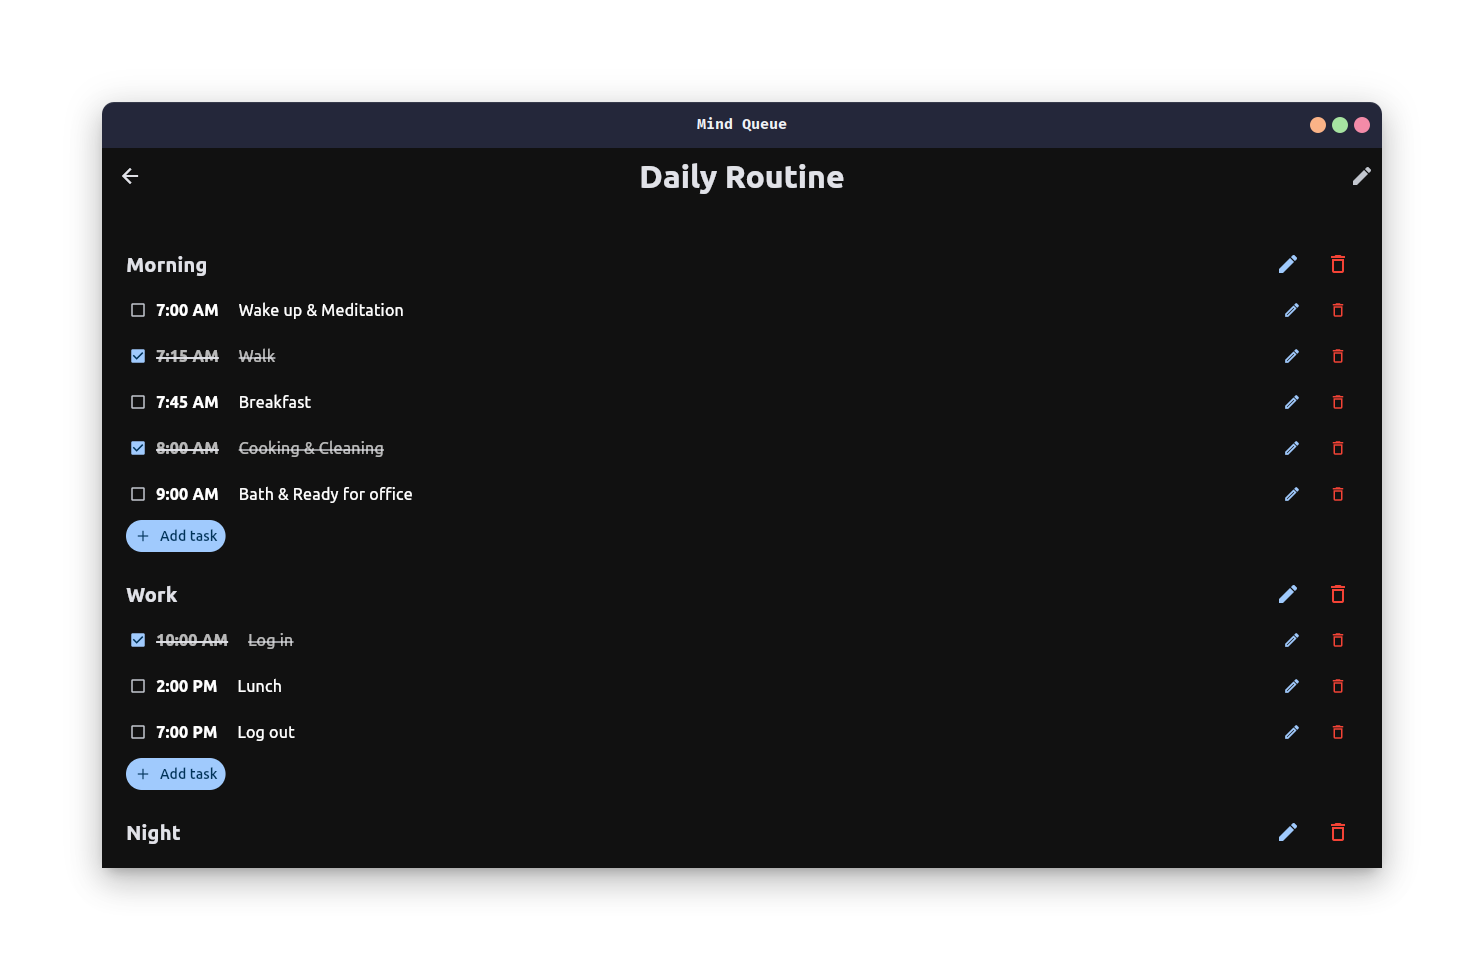
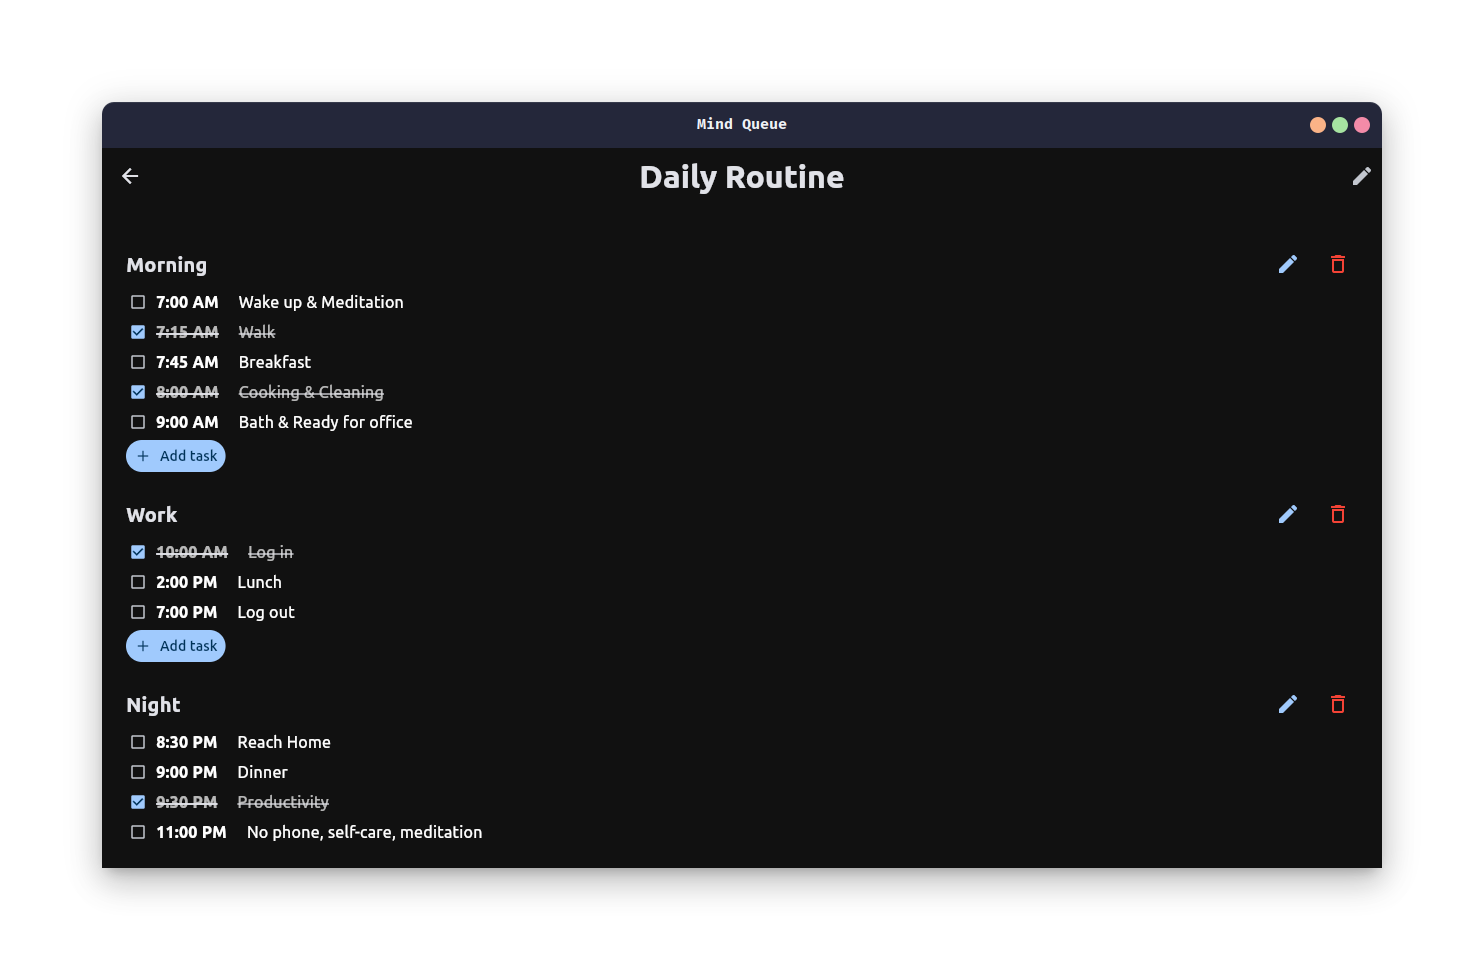
update screenshots due to ui change

Changed region(s): [[0.062, 0.3093, 0.341, 0.866]]

diff --git a/README.md b/README.md
@@ -44,35 +44,21 @@ It helps you organize your life into **Systems → Headers → Tasks**, with a f
 
 ## **Screenshots**
 
-#### 1. Dashboard - System List
-![Dashboard](screenshots/001-dashboard-system-list.png)
+| Dashboard – System List | Add New System | Open System View |
+|------------------------|----------------|------------------|
+| <img src="screenshots/001-dashboard-system-list.png" width="200"/> | <img src="screenshots/002-add-system.png" width="200"/> | <img src="screenshots/003-open-system.png" width="200"/> |
 
-#### 2. Add System
-![Add System](screenshots/002-add-system.png)
+| System Sections | Rename System | Add New Header |
+|-----------------|---------------|----------------|
+| <img src="screenshots/004-open-system.png" width="200"/> | <img src="screenshots/005-rename-system.png" width="200"/> | <img src="screenshots/006-add-header.png" width="200"/> |
 
-#### 3. Open System
-![Open System](screenshots/003-open-system.png)
+| Rename Header | Add Task | Edit / Delete / Done |
+|---------------|----------|----------------------|
+| <img src="screenshots/007-rename-header.png" width="200"/> | <img src="screenshots/008-add-task.png" width="200"/> | <img src="screenshots/009-task-actions.png" width="200"/> |
 
-#### 4. Open System
-![Open System](screenshots/004-open-system.png)
-
-#### 5. Rename System
-![Rename System](screenshots/005-rename-system.png)
-
-#### 6. Add Header
-![Add Header](screenshots/006-add-header.png)
-
-#### 7. Rename Header
-![Rename Header](screenshots/007-rename-header.png)
-
-#### 8. Add Task
-![Add Task](screenshots/008-add-task.png)
-
-#### 9. Rename Task
-![Rename Task](screenshots/009-rename-task.png)
-
-#### 10. Delete System
-![Delete System](screenshots/010-delete-system.png)
+| Rename Task | Delete System Confirmation |
+|-------------|---------------------------|
+| <img src="screenshots/010-rename-task.png" width="200"/> | <img src="screenshots/011-delete-system.png" width="200"/> |
 
 ---
 
@@ -150,5 +136,3 @@ Make sure a `data.json` file exists. If not, create a demo one:
 ## **License**
 
 Free to use, customize, and improve.
-
----
